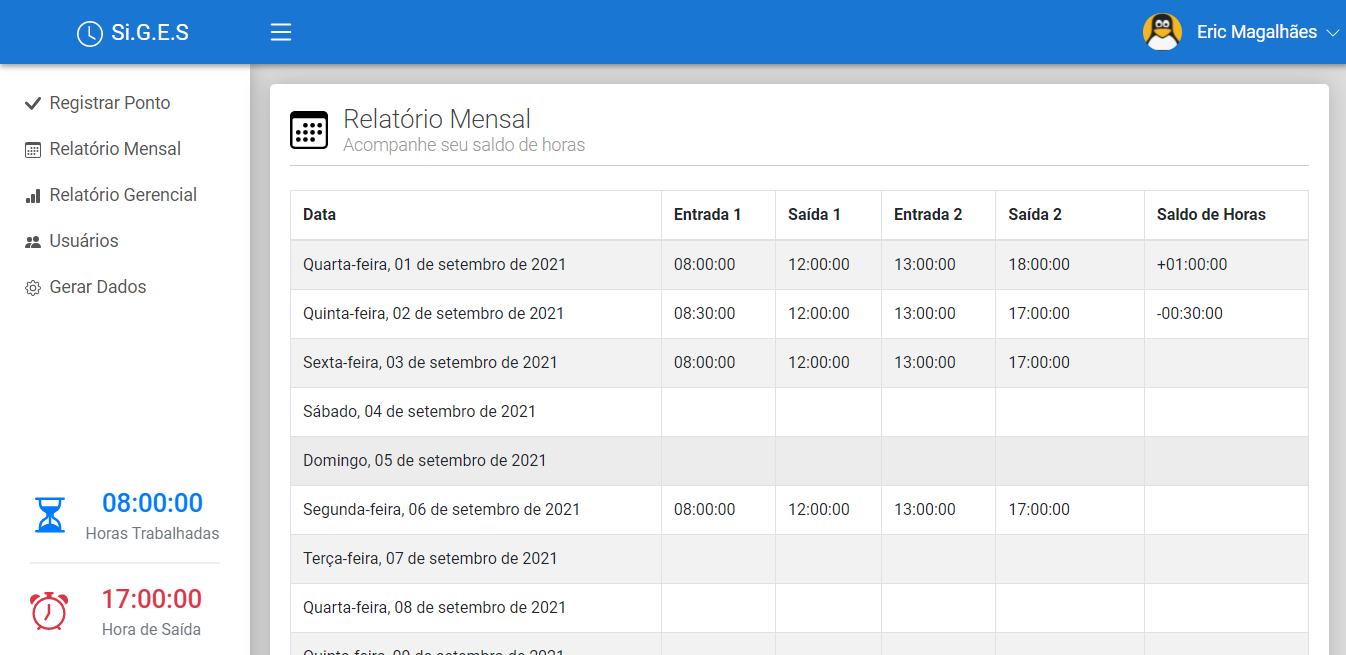
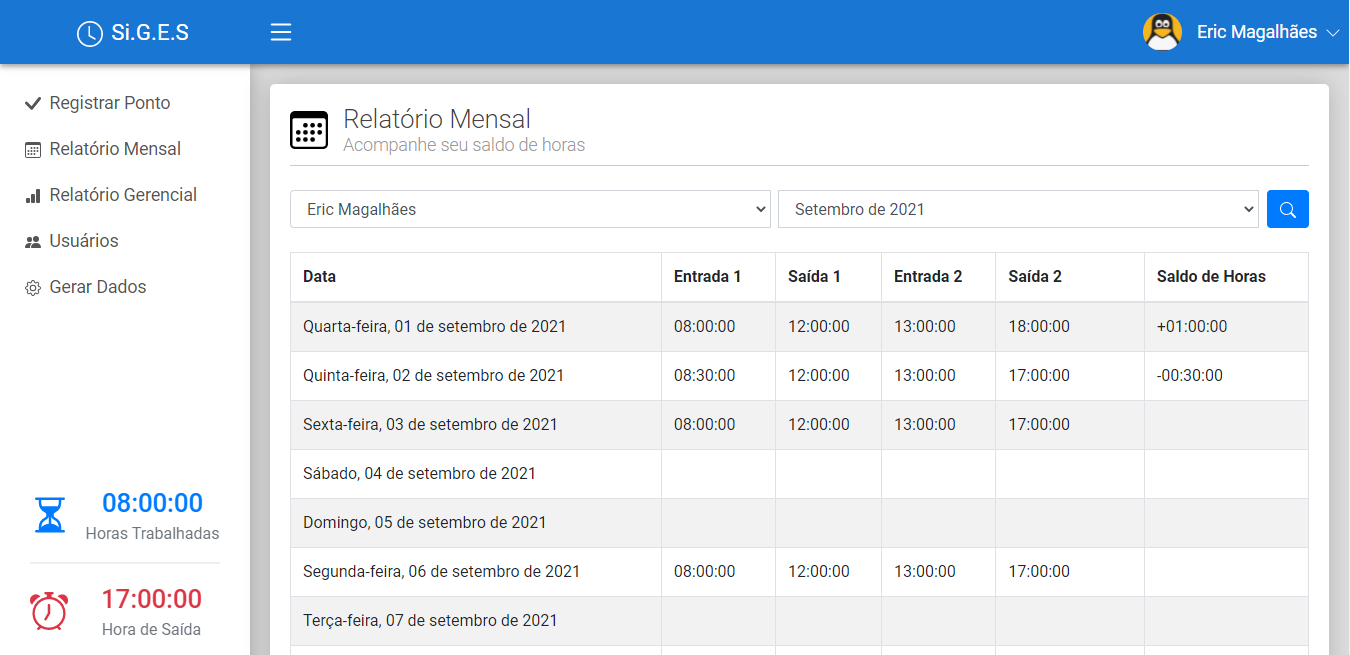
feat(view/controller): Implemented filter to search reports by user and month

diff --git a/src/views/monthly_report.php b/src/views/monthly_report.php
@@ -1,13 +1,43 @@
 <main class="content">
     <?php
-        renderTitle(
-            'Relatório Mensal',
-            'Acompanhe seu saldo de horas',
-            'calendar'
-        );
+    renderTitle(
+        'Relatório Mensal',
+        'Acompanhe seu saldo de horas',
+        'calendar'
+    );
     ?>
 
     <div>
+        <form class="mb-4" action="#" method="post">
+            <div class="input-group">
+                <?php if($user['is_admin']): ?>
+                    <select name="user" class="form-control mr-2">
+                        <?php
+                        foreach ($users as $user) {
+                            $selected = $user['id'] === $selectedUserId ? 'selected' : '';
+                            echo "<option value='{$user['id']}' {$selected}>{$user['name']}</option>";
+                        }
+                        ?>
+                    </select>
+                <?php endif ?>
+                <select name="period" class="form-control">
+                    <?php
+                    foreach ($periods as $key => $month) {
+                        $selected = $key === $selectedPeriod ? 'selected' : '';
+                        echo "<option value='{$key}' {$selected}>{$month}</option>";
+                    }
+                    ?>
+                </select>
+                <button class="btn btn-primary ml-2">
+                    <i>
+                        <svg xmlns="http://www.w3.org/2000/svg" width="16" height="16" fill="currentColor" class="bi bi-search" viewBox="0 0 16 16">
+                            <path d="M11.742 10.344a6.5 6.5 0 1 0-1.397 1.398h-.001c.03.04.062.078.098.115l3.85 3.85a1 1 0 0 0 1.415-1.414l-3.85-3.85a1.007 1.007 0 0 0-.115-.1zM12 6.5a5.5 5.5 0 1 1-11 0 5.5 5.5 0 0 1 11 0z" />
+                        </svg>
+                    </i>
+                </button>
+            </div>
+        </form>
+
         <table class="table table-bordered table-striped table-hover">
             <thead>
                 <th>Data</th>
@@ -18,7 +48,7 @@
                 <th>Saldo de Horas</th>
             </thead>
             <tbody>
-                <?php foreach($report as $registry): ?>
+                <?php foreach ($report as $registry) : ?>
                     <tr>
                         <td><?= ucfirst(formatDateWithLocale($registry->getValue('work_date'), '%A, %d de %B de %Y')); ?></td>
                         <td><?= $registry->getValue('time1') ?></td>

diff --git a/src/models/Model.php b/src/models/Model.php
@@ -36,10 +36,10 @@ class Model extends Database
             $result->bindParam(':userId', $userId, PDO::PARAM_INT);
             $result->bindParam(':date', $date, PDO::PARAM_STR);
             $result->execute();
-            
+
             $data = $result->fetch(PDO::FETCH_ASSOC);
 
-            if(!$data) {
+            if (!$data) {
                 return false;
             }
 
@@ -62,10 +62,10 @@ class Model extends Database
                 $query .= static::getFormatedValue($this->getValue($column)) . ",";
             }
             $query[strlen($query) - 1] = ')';
-            
+
             $result = $this->connection->prepare($query);
             $result->execute();
-            
+
             $id = $this->connection->lastInsertId('id');
 
             //$this->$id = $id;
@@ -75,18 +75,19 @@ class Model extends Database
         }
     }
 
-    public function update() {
+    public function update()
+    {
         try {
             $query = "UPDATE " . static::$table . " SET ";
-            foreach(static::$columns as $column) {
+            foreach (static::$columns as $column) {
                 $query .= " ${column} = " . static::getFormatedValue($this->getValue($column)) . ",";
             }
             $query[strlen($query) - 1] = ' ';
-            $query .= "WHERE id = {$this->getValue('id')}"; 
+            $query .= "WHERE id = {$this->getValue('id')}";
 
             $result = $this->connection->prepare($query);
             $result->execute();
-        } catch(PDOException $e) {
+        } catch (PDOException $e) {
             die($e->getMessage());
         }
     }
@@ -131,6 +132,25 @@ class Model extends Database
                     //array_push($data, $class);
                     $data[$class->getValue('work_date')] = $class;
                 }
+            }
+
+            return $data;
+        } catch (PDOException $e) {
+            die($e->getMessage());
+        }
+    }
+
+    public function getAllUsers()
+    {
+        try {
+            $query = "SELECT id, name FROM " . static::$table;
+
+            $result = $this->connection->prepare($query);
+            $result->execute();
+
+            $data = $result->fetchAll(PDO::FETCH_ASSOC);
+            if (!isset($data)) {
+                return false;
             }
 
             return $data;

diff --git a/src/controllers/monthly_report.php b/src/controllers/monthly_report.php
@@ -6,21 +6,41 @@ requireValidSession();
 $currentDate = new DateTime();
 
 $user = $_SESSION['USER'];
+$users = [];
+$selectedUserId = $user['id'];
+
+if($user['is_admin']) {
+    $uModel = new User();
+    $users = $uModel->getAllUsers();
+
+    $selectedUserId = isset($_POST['user']) ? $_POST['user'] : $user['id'];
+}
+
+$selectedPeriod = isset($_POST['period']) ? $_POST['period'] : $currentDate->format('Y-m');
+$periods = [];
+
+for ($yearDiff = 0; $yearDiff <= 1; $yearDiff++) {
+    $year = date('Y') - $yearDiff;
+    for($month = 12; $month >= 1; $month--) {
+        $date = new DateTime("{$year}-{$month}-1");
+        $periods[$date->format('Y-m')] = ucfirst(strftime('%B de %Y', $date->getTimestamp()));
+    }
+}
 
 $model =  new WorkingHours();
-$registries = $model->getMonthlyReport($user['id'], $currentDate);
+$registries = $model->getMonthlyReport($selectedUserId, $selectedPeriod);
 
 $report = [];
 $workday = 0;
 $sumOfWorkedTime = 0;
-$lastDay = getLastDayOfMonth($currentDate)->format('d');
+$lastDay = getLastDayOfMonth($selectedPeriod)->format('d');
 
-for($day = 1; $day <= $lastDay; $day++) {
-    $date = $currentDate->format('Y-m') . '-' . sprintf('%02d', $day);
+for ($day = 1; $day <= $lastDay; $day++) {
+    $date = $selectedPeriod . '-' . sprintf('%02d', $day);
 
-    if(isPastWorkday($date)) $workday++;
+    if (isPastWorkday($date)) $workday++;
 
-    if(isset($registries[$date])) {
+    if (isset($registries[$date])) {
         $registry = $registries[$date];
 
         $sumOfWorkedTime += $registry->getValue('worked_time');
@@ -47,5 +67,9 @@ $sign = ($sumOfWorkedTime >= $expectedTime) ? '+' : '-';
 loadTemplateView('monthly_report', [
     'report' => $report,
     'sumOfWorkedTime' => getTimeStringFromSeconds($sumOfWorkedTime),
-    'balance' => "{$sign}{$balance}"
+    'balance' => "{$sign}{$balance}",
+    'selectedPeriod' => $selectedPeriod,
+    'selectedUserId' => $selectedUserId,
+    'periods' => $periods,
+    'users' => $users
 ]);
